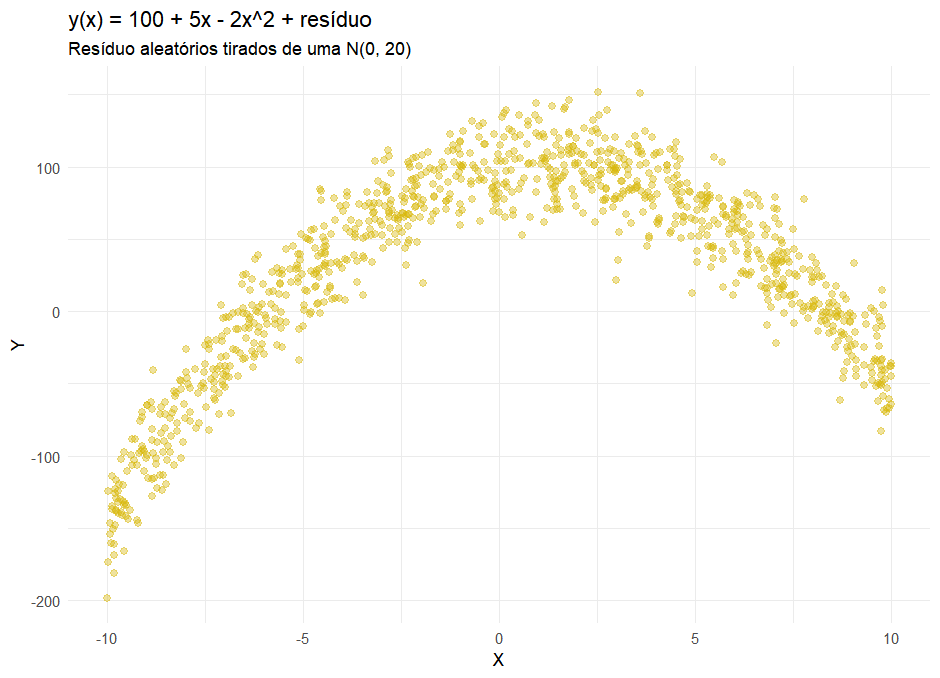
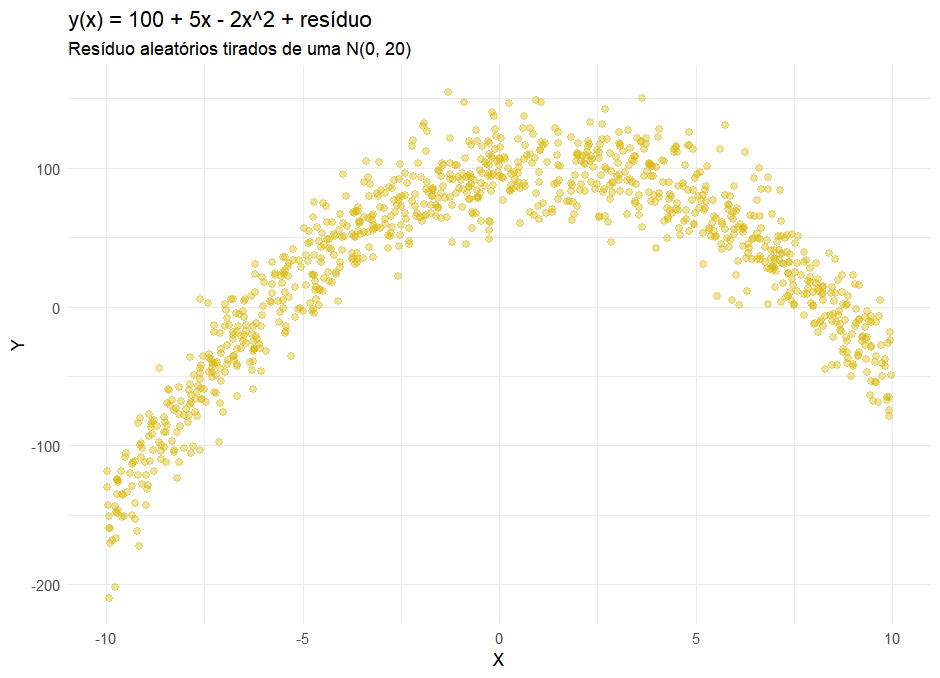
fix exemplo heterocedasticidade

diff --git a/tabelas/exemplo3.tex b/tabelas/exemplo3.tex
@@ -1,6 +1,6 @@
 
 % Table created by stargazer v.5.2.2 by Marek Hlavac, Harvard University. E-mail: hlavac at fas.harvard.edu
-% Date and time: Fri, Oct 30, 2020 - 4:06:08 PM
+% Date and time: Mon, Nov 02, 2020 - 9:36:52 PM
 % Requires LaTeX packages: dcolumn 
 \begin{table}[!htbp] \centering 
   \caption{} 
@@ -8,28 +8,28 @@
 \begin{tabular}{@{\extracolsep{5pt}}lD{.}{.}{-3} D{.}{.}{-3} } 
 \\[-1.8ex]\hline 
 \hline \\[-1.8ex] 
- & \multicolumn{2}{c}{\textit{Variável Resposta}} \\ 
+ & \multicolumn{2}{c}{\textit{Dependent variable:}} \\ 
 \cline{2-3} 
 \\[-1.8ex] & \multicolumn{2}{c}{y} \\ 
 \\[-1.8ex] & \multicolumn{1}{c}{(1)} & \multicolumn{1}{c}{(2)}\\ 
 \hline \\[-1.8ex] 
- x & 4.218^{***} & 5.051^{***} \\ 
-  & (0.323) & (0.057) \\ 
+ x & 4.906^{***} & 5.246^{***} \\ 
+  & (0.344) & (0.112) \\ 
   & & \\ 
- x2 &  & -1.983^{***} \\ 
-  &  & (0.011) \\ 
+ x2 &  & -2.013^{***} \\ 
+  &  & (0.022) \\ 
   & & \\ 
- Constante & 36.953^{***} & 104.263^{***} \\ 
-  & (1.890) & (0.500) \\ 
+ Constant & 31.098^{***} & 99.454^{***} \\ 
+  & (2.007) & (0.987) \\ 
   & & \\ 
 \hline \\[-1.8ex] 
-Observações & \multicolumn{1}{c}{1,000} & \multicolumn{1}{c}{1,000} \\ 
-R$^{2}$ & \multicolumn{1}{c}{0.146} & \multicolumn{1}{c}{0.974} \\ 
-Adjusted R$^{2}$ & \multicolumn{1}{c}{0.145} & \multicolumn{1}{c}{0.974} \\ 
-Erro-Padrão dos Resíduos & \multicolumn{1}{c}{59.594 (df = 998)} & \multicolumn{1}{c}{10.379 (df = 997)} \\ 
-Estatística F & \multicolumn{1}{c}{169.995$^{***}$ (df = 1; 998)} & \multicolumn{1}{c}{18,752.900$^{***}$ (df = 2; 997)} \\ 
+Observations & \multicolumn{1}{c}{1,000} & \multicolumn{1}{c}{1,000} \\ 
+R$^{2}$ & \multicolumn{1}{c}{0.169} & \multicolumn{1}{c}{0.913} \\ 
+Adjusted R$^{2}$ & \multicolumn{1}{c}{0.168} & \multicolumn{1}{c}{0.912} \\ 
+Residual Std. Error & \multicolumn{1}{c}{63.471 (df = 998)} & \multicolumn{1}{c}{20.585 (df = 997)} \\ 
+F Statistic & \multicolumn{1}{c}{202.891$^{***}$ (df = 1; 998)} & \multicolumn{1}{c}{5,209.951$^{***}$ (df = 2; 997)} \\ 
 \hline 
 \hline \\[-1.8ex] 
-\textit{}  & \multicolumn{2}{r}{$^{*}$p$<$0.1; $^{**}$p$<$0.05; $^{***}$p$<$0.01} \\ 
+\textit{Note:}  & \multicolumn{2}{r}{$^{*}$p$<$0.1; $^{**}$p$<$0.05; $^{***}$p$<$0.01} \\ 
 \end{tabular} 
 \end{table} 

diff --git a/tabelas/exemplo_heteroskeda.tex b/tabelas/exemplo_heteroskeda.tex
@@ -1,31 +1,35 @@
 
 % Table created by stargazer v.5.2.2 by Marek Hlavac, Harvard University. E-mail: hlavac at fas.harvard.edu
-% Date and time: Mon, Nov 02, 2020 - 9:28:51 PM
+% Date and time: Mon, Nov 02, 2020 - 9:36:52 PM
 % Requires LaTeX packages: dcolumn 
 \begin{table}[!htbp] \centering 
   \caption{} 
   \label{} 
-\begin{tabular}{@{\extracolsep{5pt}}lD{.}{.}{-3} } 
+\begin{tabular}{@{\extracolsep{5pt}}lD{.}{.}{-3} D{.}{.}{-3} } 
 \\[-1.8ex]\hline 
 \hline \\[-1.8ex] 
- & \multicolumn{1}{c}{\textit{Dependent variable:}} \\ 
-\cline{2-2} 
-\\[-1.8ex] & \multicolumn{1}{c}{y} \\ 
+ & \multicolumn{2}{c}{\textit{Dependent variable:}} \\ 
+\cline{2-3} 
+\\[-1.8ex] & \multicolumn{2}{c}{y} \\ 
+\\[-1.8ex] & \multicolumn{1}{c}{(1)} & \multicolumn{1}{c}{(2)}\\ 
 \hline \\[-1.8ex] 
- x & 4.224^{***} \\ 
-  & (0.742) \\ 
-  & \\ 
- Constant & 27.347^{***} \\ 
-  & (4.303) \\ 
-  & \\ 
+ x & 4.754^{***} & 4.681^{***} \\ 
+  & (0.748) & (0.675) \\ 
+  & & \\ 
+ x2 &  & -1.978^{***} \\ 
+  &  & (0.131) \\ 
+  & & \\ 
+ Constant & 32.546^{***} & 98.291^{***} \\ 
+  & (4.310) & (5.852) \\ 
+  & & \\ 
 \hline \\[-1.8ex] 
-Observations & \multicolumn{1}{c}{1,000} \\ 
-R$^{2}$ & \multicolumn{1}{c}{0.031} \\ 
-Adjusted R$^{2}$ & \multicolumn{1}{c}{0.030} \\ 
-Residual Std. Error & \multicolumn{1}{c}{136.055 (df = 998)} \\ 
-F Statistic & \multicolumn{1}{c}{32.368$^{***}$ (df = 1; 998)} \\ 
+Observations & \multicolumn{1}{c}{1,000} & \multicolumn{1}{c}{1,000} \\ 
+R$^{2}$ & \multicolumn{1}{c}{0.039} & \multicolumn{1}{c}{0.217} \\ 
+Adjusted R$^{2}$ & \multicolumn{1}{c}{0.038} & \multicolumn{1}{c}{0.215} \\ 
+Residual Std. Error & \multicolumn{1}{c}{136.293 (df = 998)} & \multicolumn{1}{c}{123.100 (df = 997)} \\ 
+F Statistic & \multicolumn{1}{c}{40.424$^{***}$ (df = 1; 998)} & \multicolumn{1}{c}{137.974$^{***}$ (df = 2; 997)} \\ 
 \hline 
 \hline \\[-1.8ex] 
-\textit{Note:}  & \multicolumn{1}{r}{$^{*}$p$<$0.1; $^{**}$p$<$0.05; $^{***}$p$<$0.01} \\ 
+\textit{Note:}  & \multicolumn{2}{r}{$^{*}$p$<$0.1; $^{**}$p$<$0.05; $^{***}$p$<$0.01} \\ 
 \end{tabular} 
 \end{table} 
